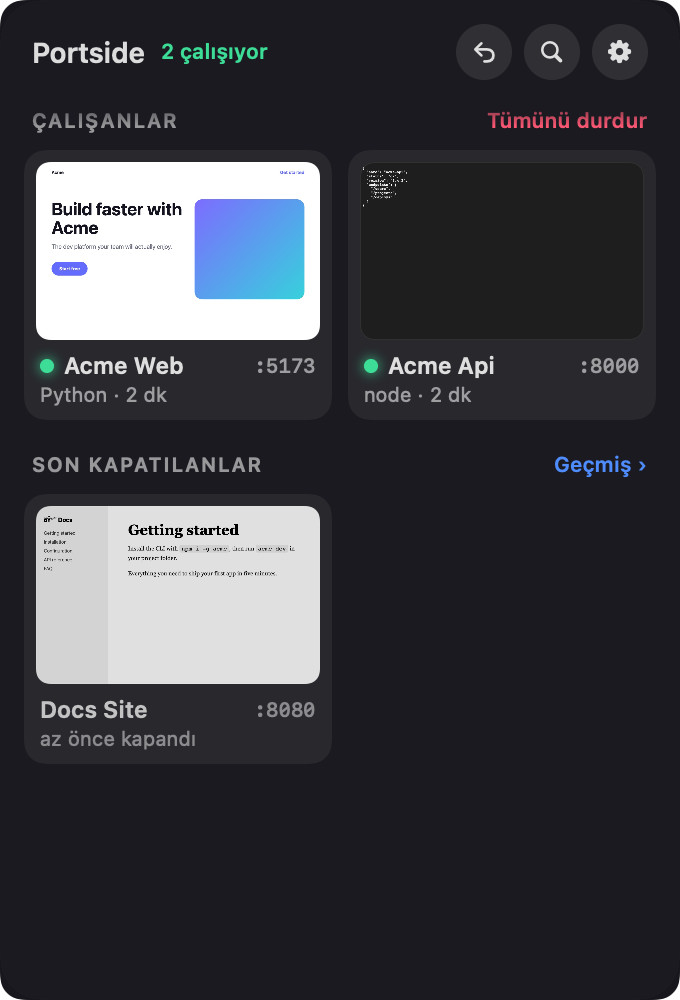
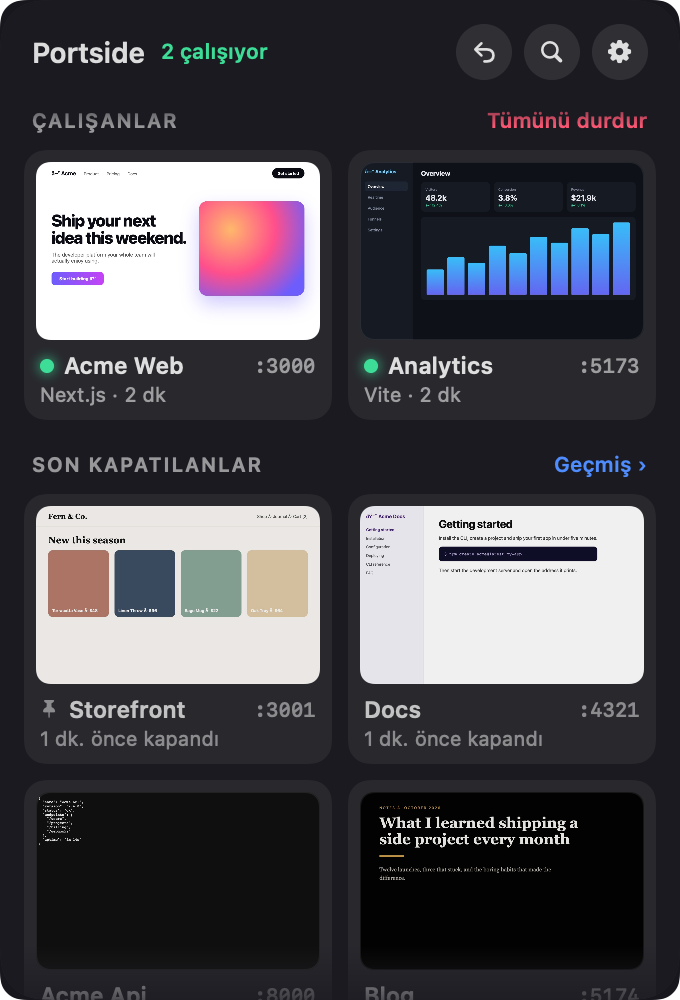
Hide the panel scroller, keep closed servers recognisable, new screenshots
- No scroll indicator in the panel or history.
- Closed cards keep their picture in colour (faded, not grey); an entry without
  a picture borrows the newest one from the same project folder, same port first.
- Stand-ins show the project name, not just the port.
- Previews refresh every 5 minutes instead of 10.
- PORTSIDE_DATA_DIR keeps demo history away from your own; the search field
  renders in snapshots.
- Remove the pre-release Liman migration.
- README hero, screenshot row and GitHub social preview image.

diff --git a/Sources/Portside/Views/Rows/ServerCards.swift b/Sources/Portside/Views/Rows/ServerCards.swift
@@ -7,6 +7,8 @@ struct PreviewThumb: View {
     let entryID: String?
     let framework: Framework
     let port: Int
+    /// Shown on the stand-in; left out where the thumbnail is too small to read it.
+    var title: String?
     var dimmed = false
 
     static let aspect: CGFloat = 16.0 / 10.0
@@ -20,8 +22,9 @@ struct PreviewThumb: View {
                     Image(nsImage: image)
                         .resizable()
                         .aspectRatio(contentMode: .fill)
-                        .saturation(dimmed ? 0 : 1)
-                        .brightness(dimmed ? -0.12 : 0)
+                        // Faded, but still in colour: it has to be recognisable.
+                        .saturation(dimmed ? 0.55 : 1)
+                        .brightness(dimmed ? -0.06 : 0)
                 } else {
                     placeholder
                 }
@@ -39,9 +42,18 @@ struct PreviewThumb: View {
                 colors: [framework.color.opacity(dimmed ? 0.12 : 0.35), framework.color.opacity(dimmed ? 0.04 : 0.10)],
                 startPoint: .topLeading, endPoint: .bottomTrailing
             )
-            Text(verbatim: ":\(port)")
-                .font(.system(size: 18, weight: .bold, design: .monospaced))
-                .foregroundStyle(.white.opacity(dimmed ? 0.35 : 0.8))
+            VStack(spacing: 2) {
+                if let title {
+                    Text(verbatim: title)
+                        .font(.system(size: 13, weight: .bold))
+                        .lineLimit(1)
+                        .minimumScaleFactor(0.7)
+                        .padding(.horizontal, 8)
+                }
+                Text(verbatim: ":\(port)")
+                    .font(.system(size: title == nil ? 18 : 11, weight: .bold, design: .monospaced))
+            }
+            .foregroundStyle(.white.opacity(dimmed ? 0.45 : 0.85))
         }
     }
 }
@@ -146,7 +158,10 @@ struct RunningCard: View {
 
     var body: some View {
         VStack(alignment: .leading, spacing: 0) {
-            PreviewThumb(entryID: appState.entry(for: server)?.id, framework: server.framework, port: server.port)
+            PreviewThumb(
+                entryID: appState.entry(for: server).map(appState.previewID),
+                framework: server.framework, port: server.port, title: server.projectName
+            )
                 .overlay(alignment: .topTrailing) {
                     if isHovered && !isRestarting {
                         HStack(spacing: 4) {
@@ -202,7 +217,10 @@ struct ClosedCard: View {
 
     var body: some View {
         VStack(alignment: .leading, spacing: 0) {
-            PreviewThumb(entryID: entry.id, framework: entry.framework, port: entry.port, dimmed: true)
+            PreviewThumb(
+                entryID: appState.previewID(for: entry),
+                framework: entry.framework, port: entry.port, title: entry.projectName, dimmed: true
+            )
                 .overlay {
                     if isOpening {
                         ProgressView().controlSize(.small)

diff --git a/Tests/PortsideTests/PortsideTests.swift b/Tests/PortsideTests/PortsideTests.swift
@@ -210,3 +210,59 @@ final class RunCountTests: XCTestCase {
         XCTAssertEqual(e.runCount, 2)
     }
 }
+
+final class PreviewFallbackTests: XCTestCase {
+    private var original: URL!
+    private var temp: URL!
+
+    override func setUp() {
+        original = HistoryStore.directory
+        temp = FileManager.default.temporaryDirectory.appendingPathComponent("PortsideTests-\(UUID().uuidString)")
+        HistoryStore.directory = temp
+    }
+
+    override func tearDown() {
+        HistoryStore.directory = original
+        try? FileManager.default.removeItem(at: temp)
+    }
+
+    private func entry(_ id: String, path: String = "/site", port: Int, seen: TimeInterval) -> HistoryEntry {
+        HistoryEntry(
+            id: id, projectName: "Site", projectPath: path, port: port, framework: .vite, executable: "/bin/node",
+            arguments: [], environment: [:], displayCommand: "", customCommand: nil,
+            firstSeen: Date(timeIntervalSince1970: seen), lastSeen: Date(timeIntervalSince1970: seen),
+            lastStopped: nil, lastStarted: nil, runCount: 1, isPinned: false
+        )
+    }
+
+    @MainActor
+    private func writePreview(for id: String) throws {
+        try FileManager.default.createDirectory(at: PreviewStore.directory, withIntermediateDirectories: true)
+        let image = NSImage(size: NSSize(width: 4, height: 4), flipped: false) { rect in
+            NSColor.red.setFill(); rect.fill(); return true
+        }
+        let bitmap = NSBitmapImageRep(data: image.tiffRepresentation!)!
+        try bitmap.representation(using: .jpeg, properties: [:])!.write(to: PreviewStore.file(for: HistoryEntry.fileKey(for: id)))
+    }
+
+    @MainActor
+    func testClosedServerBorrowsItsProjectsPicture() throws {
+        let state = AppState(polling: false)
+        let fresh = entry("fresh", port: 5174, seen: 300)
+        state.history = [
+            "fresh": fresh,
+            "old-other-port": entry("old-other-port", port: 5173, seen: 100),
+            "old-same-port": entry("old-same-port", port: 5174, seen: 50),
+            "elsewhere": entry("elsewhere", path: "/other", port: 5174, seen: 200),
+        ]
+        XCTAssertEqual(state.previewID(for: fresh), "fresh", "nothing to borrow")
+
+        try writePreview(for: "old-other-port")
+        try writePreview(for: "old-same-port")
+        try writePreview(for: "elsewhere")
+        XCTAssertEqual(state.previewID(for: fresh), "old-same-port", "same folder, same port first; never another folder")
+
+        try writePreview(for: "fresh")
+        XCTAssertEqual(state.previewID(for: fresh), "fresh")
+    }
+}

diff --git a/Sources/Portside/Models/HistoryEntry.swift b/Sources/Portside/Models/HistoryEntry.swift
@@ -76,10 +76,12 @@ struct HistoryEntry: Identifiable, Codable, Hashable {
 enum HistoryStore {
     static let limit = 200
 
-    /// Overridden by tests.
-    nonisolated(unsafe) static var directory: URL = FileManager.default
-        .urls(for: .applicationSupportDirectory, in: .userDomainMask)[0]
-        .appendingPathComponent("Portside", isDirectory: true)
+    /// Overridden by tests, and by PORTSIDE_DATA_DIR so demo screenshots don't touch your history.
+    nonisolated(unsafe) static var directory: URL = ProcessInfo.processInfo.environment["PORTSIDE_DATA_DIR"]
+        .map { URL(fileURLWithPath: $0, isDirectory: true) }
+        ?? FileManager.default
+            .urls(for: .applicationSupportDirectory, in: .userDomainMask)[0]
+            .appendingPathComponent("Portside", isDirectory: true)
 
     static var logDirectory: URL {
         FileManager.default.urls(for: .libraryDirectory, in: .userDomainMask)[0]
@@ -89,7 +91,6 @@ enum HistoryStore {
     static var file: URL { directory.appendingPathComponent("history.json") }
 
     static func load() -> [String: HistoryEntry] {
-        migrateFromLiman()
         guard let data = try? Data(contentsOf: file) else { return [:] }
         let decoder = JSONDecoder()
         decoder.dateDecodingStrategy = .iso8601
@@ -114,15 +115,5 @@ enum HistoryStore {
         if (try? data.write(to: file, options: .atomic)) != nil {
             try? fm.setAttributes([.posixPermissions: 0o600], ofItemAtPath: file.path)
         }
-    }
-
-    /// Portside was called Liman during development; keep that history.
-    private static func migrateFromLiman() {
-        let fm = FileManager.default
-        let old = directory.deletingLastPathComponent().appendingPathComponent("Liman/history.json")
-        guard directory.lastPathComponent == "Portside",
-              !fm.fileExists(atPath: file.path), fm.fileExists(atPath: old.path) else { return }
-        try? fm.createDirectory(at: directory, withIntermediateDirectories: true)
-        try? fm.copyItem(at: old, to: file)
     }
 }

diff --git a/Sources/Portside/Views/PanelView.swift b/Sources/Portside/Views/PanelView.swift
@@ -59,7 +59,7 @@ struct PanelGlass: ViewModifier {
 
     func body(content: Content) -> some View {
         let shape = RoundedRectangle(cornerRadius: cornerRadius, style: .continuous)
-        if #available(macOS 26, *), !Self.flatForSnapshots {
+        if #available(macOS 26, *), !SelfTest.isSnapshot {
             content
                 .clipShape(shape)
                 .glassEffect(.regular.tint(.black.opacity(0.22)), in: shape)
@@ -73,9 +73,6 @@ struct PanelGlass: ViewModifier {
                 .clipShape(shape)
         }
     }
-
-    // ImageRenderer can't draw glass.
-    private static var flatForSnapshots: Bool { ProcessInfo.processInfo.environment["PORTSIDE_SNAPSHOT"] != nil }
 }
 
 // MARK: - Main page
@@ -277,13 +274,14 @@ struct EmptyStateView: View {
 // ImageRenderer leaves ScrollView blank, so the self-test snapshot lays it out flat.
 struct Scrollable<Content: View>: View {
     @ViewBuilder let content: Content
-    private static var flat: Bool { ProcessInfo.processInfo.environment["PORTSIDE_SNAPSHOT"] != nil }
 
     var body: some View {
-        if Self.flat {
+        if SelfTest.isSnapshot {
             content.frame(minHeight: 0, maxHeight: .infinity, alignment: .top).clipped()
         } else {
+            // The panel is small and the edges already fade, so no scroller.
             ScrollView { content }
+                .scrollIndicators(.never)
         }
     }
 }

diff --git a/Sources/Portside/State/AppState.swift b/Sources/Portside/State/AppState.swift
@@ -62,6 +62,18 @@ final class AppState {
         pidKeys[server.pid].flatMap { history[$0] }
     }
 
+    /// The entry whose page picture stands for `entry`: its own, or else the newest one
+    /// taken in the same folder (same port first). A server started with other arguments
+    /// is a new entry, and it shouldn't lose its picture for that.
+    func previewID(for entry: HistoryEntry) -> String {
+        let previews = PreviewStore.shared
+        if previews.hasImage(for: entry.id) { return entry.id }
+        return history.values
+            .filter { $0.projectPath == entry.projectPath && $0.id != entry.id }
+            .sorted { ($0.port == entry.port ? 1 : 0, $0.lastSeen) > ($1.port == entry.port ? 1 : 0, $1.lastSeen) }
+            .first { previews.hasImage(for: $0.id) }?.id ?? entry.id
+    }
+
     func isRunning(_ entry: HistoryEntry) -> Bool { runningKeys.contains(entry.id) }
 
     private var closed: [HistoryEntry] {
@@ -136,7 +148,7 @@ final class AppState {
 
     // MARK: - Previews
 
-    private static let backgroundPreviewAge: TimeInterval = 600
+    private static let backgroundPreviewAge: TimeInterval = 300
     private static let previewWarmUp: TimeInterval = 5
 
     /// Captures pages of running servers whose picture is older than `maxAge`,

diff --git a/Sources/Portside/Views/HistoryPage.swift b/Sources/Portside/Views/HistoryPage.swift
@@ -83,10 +83,17 @@ struct HistoryPage: View {
             Image(systemName: "magnifyingglass")
                 .font(.system(size: 11))
                 .foregroundStyle(.secondary)
-            TextField("Search project, port or command", text: $query)
-                .textFieldStyle(.plain)
-                .font(.system(size: 12))
-                .focused($searchFocused)
+            if SelfTest.isSnapshot {
+                Text("Search project, port or command")
+                    .font(.system(size: 12))
+                    .foregroundStyle(.tertiary)
+                    .frame(maxWidth: .infinity, alignment: .leading)
+            } else {
+                TextField("Search project, port or command", text: $query)
+                    .textFieldStyle(.plain)
+                    .font(.system(size: 12))
+                    .focused($searchFocused)
+            }
             if !query.isEmpty {
                 Button { query = "" } label: {
                     Image(systemName: "xmark.circle.fill")

diff --git a/Sources/Portside/App/SelfTest.swift b/Sources/Portside/App/SelfTest.swift
@@ -5,10 +5,14 @@ import SwiftUI
 //   PORTSIDE_SNAPSHOT=<file.png>     render the panel to a PNG
 //   PORTSIDE_PAGE=history|settings|about  which panel page to render (default: main)
 //   PORTSIDE_DEMO_ROOT=<folder>      only list servers under that folder (clean screenshots)
+//   PORTSIDE_DATA_DIR=<folder>       keep history and previews there instead of Application Support
 //   PORTSIDE_ICON_FRAMES=<folder>    write the menu bar glyph states as PNGs
 // The app quits when done.
 @MainActor
 enum SelfTest {
+    /// ImageRenderer can't draw glass, scroll views or text fields; views lay out a flat stand-in.
+    nonisolated static let isSnapshot = ProcessInfo.processInfo.environment["PORTSIDE_SNAPSHOT"] != nil
+
     static func runIfRequested(_ appState: AppState, _ scrollActivity: ScrollActivity) -> Bool {
         let env = ProcessInfo.processInfo.environment
         if let folder = env["PORTSIDE_ICON_FRAMES"] {

diff --git a/Sources/Portside/Services/PreviewStore.swift b/Sources/Portside/Services/PreviewStore.swift
@@ -37,6 +37,14 @@ final class PreviewStore {
         return image
     }
 
+    func hasImage(for entryID: String) -> Bool {
+        _ = version
+        guard isEnabled else { return false }
+        let key = HistoryEntry.fileKey(for: entryID)
+        return cache.object(forKey: key as NSString) != nil
+            || FileManager.default.fileExists(atPath: Self.file(for: key).path)
+    }
+
     /// Queues a capture unless one was taken within `maxAge`.
     func capture(entryID: String, port: Int, maxAge: TimeInterval) {
         guard isEnabled, let url = URL(string: "http://localhost:\(port)/") else { return }

diff --git a/Sources/Portside/Views/Rows/HistoryRowView.swift b/Sources/Portside/Views/Rows/HistoryRowView.swift
@@ -41,7 +41,7 @@ struct HistoryRowView: View {
         HStack(spacing: 0) {
             ColorBar(color: barColor, isWorking: isOpening)
 
-            PreviewThumb(entryID: entry.id, framework: entry.framework, port: entry.port, dimmed: !isRunning)
+            PreviewThumb(entryID: appState.previewID(for: entry), framework: entry.framework, port: entry.port, dimmed: !isRunning)
                 .frame(width: 58)
                 .padding(.trailing, 10)
 

diff --git a/README.md b/README.md
@@ -11,15 +11,13 @@
 </p>
 
 <p align="center">
-  <img src="docs/screenshots/panel.png" alt="Portside panel: running servers, a pinned server and recently closed servers" width="340">
-  &nbsp;
-  <img src="docs/screenshots/settings.png" alt="Portside settings" width="340">
+  <img src="docs/screenshots/hero.png" alt="Portside in the menu bar: running servers and recently closed servers, each with a picture of its page">
 </p>
 
 ## Features
 
 - **Running servers as cards, with a preview of each page.** Port, project name, framework (Next.js, Vite, Nuxt, Remix, Astro, Django, Flask, FastAPI, Rails, Go, Cargo, PHP, plain Python and more) and how long each one has been up. Click a card to open it in the browser.
-- **Recently Closed.** When a server stops, for whatever reason, its card turns grey and stays, showing the last picture of its page so you recognise it. Click it to start the server again; Portside opens it in your browser once it is listening.
+- **Recently Closed.** When a server stops, for whatever reason, its card fades and stays, still showing the last picture of its page so you recognise it at a glance. A server started again with different arguments keeps its project's picture. Click it to start the server again; Portside opens it in your browser once it is listening.
 - **A menu bar icon that counts.** A small browser window with the number of running servers inside. The number rolls when it changes, counts up when you point at it, and a loading bar runs while a server is starting.
 - **Liquid Glass panel** on macOS 26 and later.
 - **Reopen the last closed server** with the ↩ button, or with ⌃⌥⌘T from anywhere (optional shortcut).
@@ -33,6 +31,16 @@
 - **iOS Simulators:** booted simulators with the app running inside; relaunch the app or shut the simulator down.
 - **Quick actions** on right-click: Show in Finder, Open in Terminal, Copy Address, Copy Command, Open Output Log.
 - English and Türkçe; Portside follows your macOS language.
+
+## Screenshots
+
+<p align="center">
+  <img src="docs/screenshots/panel.png" alt="Main panel: running servers and recently closed servers" width="270">
+  &nbsp;
+  <img src="docs/screenshots/history.png" alt="History: searchable, grouped by day, pinned servers on top" width="270">
+  &nbsp;
+  <img src="docs/screenshots/settings.png" alt="Settings" width="270">
+</p>
 
 ## Install
 

diff --git a/README.tr.md b/README.tr.md
@@ -11,7 +11,7 @@
 ## Özellikler
 
 - **Önizlemeli kartlar:** her çalışan sunucu, sayfasının küçük görüntüsüyle bir kart: port, proje adı, çatı (Next.js, Vite, Django, FastAPI…) ve ne kadar süredir açık olduğu. Karta tıklayınca tarayıcıda açılır.
-- **Son kapatılanlar:** kapanan sunucunun kartı griye döner ve sayfasının son görüntüsüyle kalır. Tıklayınca yeniden başlar; port dinlenmeye başlayınca tarayıcıda açılır.
+- **Son kapatılanlar:** kapanan sunucunun kartı solar ama sayfasının son görüntüsüyle, renkli olarak kalır; neyin ne olduğu bir bakışta anlaşılır. Aynı proje farklı argümanlarla açılmışsa da projenin görüntüsü kullanılır. Tıklayınca yeniden başlar; port dinlenmeye başlayınca tarayıcıda açılır.
 - **Sayan menü çubuğu simgesi:** küçük bir pencere, içinde çalışan sunucu sayısı. Sayı değişince yuvarlanır, üstüne gelince sayar, sunucu açılırken yükleme çizgisi akar.
 - **Liquid Glass panel** (macOS 26 ve sonrası).
 - **Son kapatılanı aç:** başlıktaki ↩ düğmesi ya da her yerden ⌃⌥⌘T (isteğe bağlı kısayol).

diff --git a/CHANGELOG.md b/CHANGELOG.md
@@ -5,7 +5,7 @@
 First public release.
 
 - Running dev servers as cards with a preview of each page; open, restart or stop them.
-- Closed servers keep the last picture of their page.
+- Closed servers keep the last picture of their page, in colour; a server started again with other arguments keeps its project's picture.
 - Menu bar icon: a small window with the number of running servers that rolls, counts on hover and shows a loading bar while a server starts.
 - Liquid Glass panel on macOS 26 and later.
 - Recently Closed and a searchable, day-grouped History: reopen any server Portside has seen with its original command, folder and environment.
